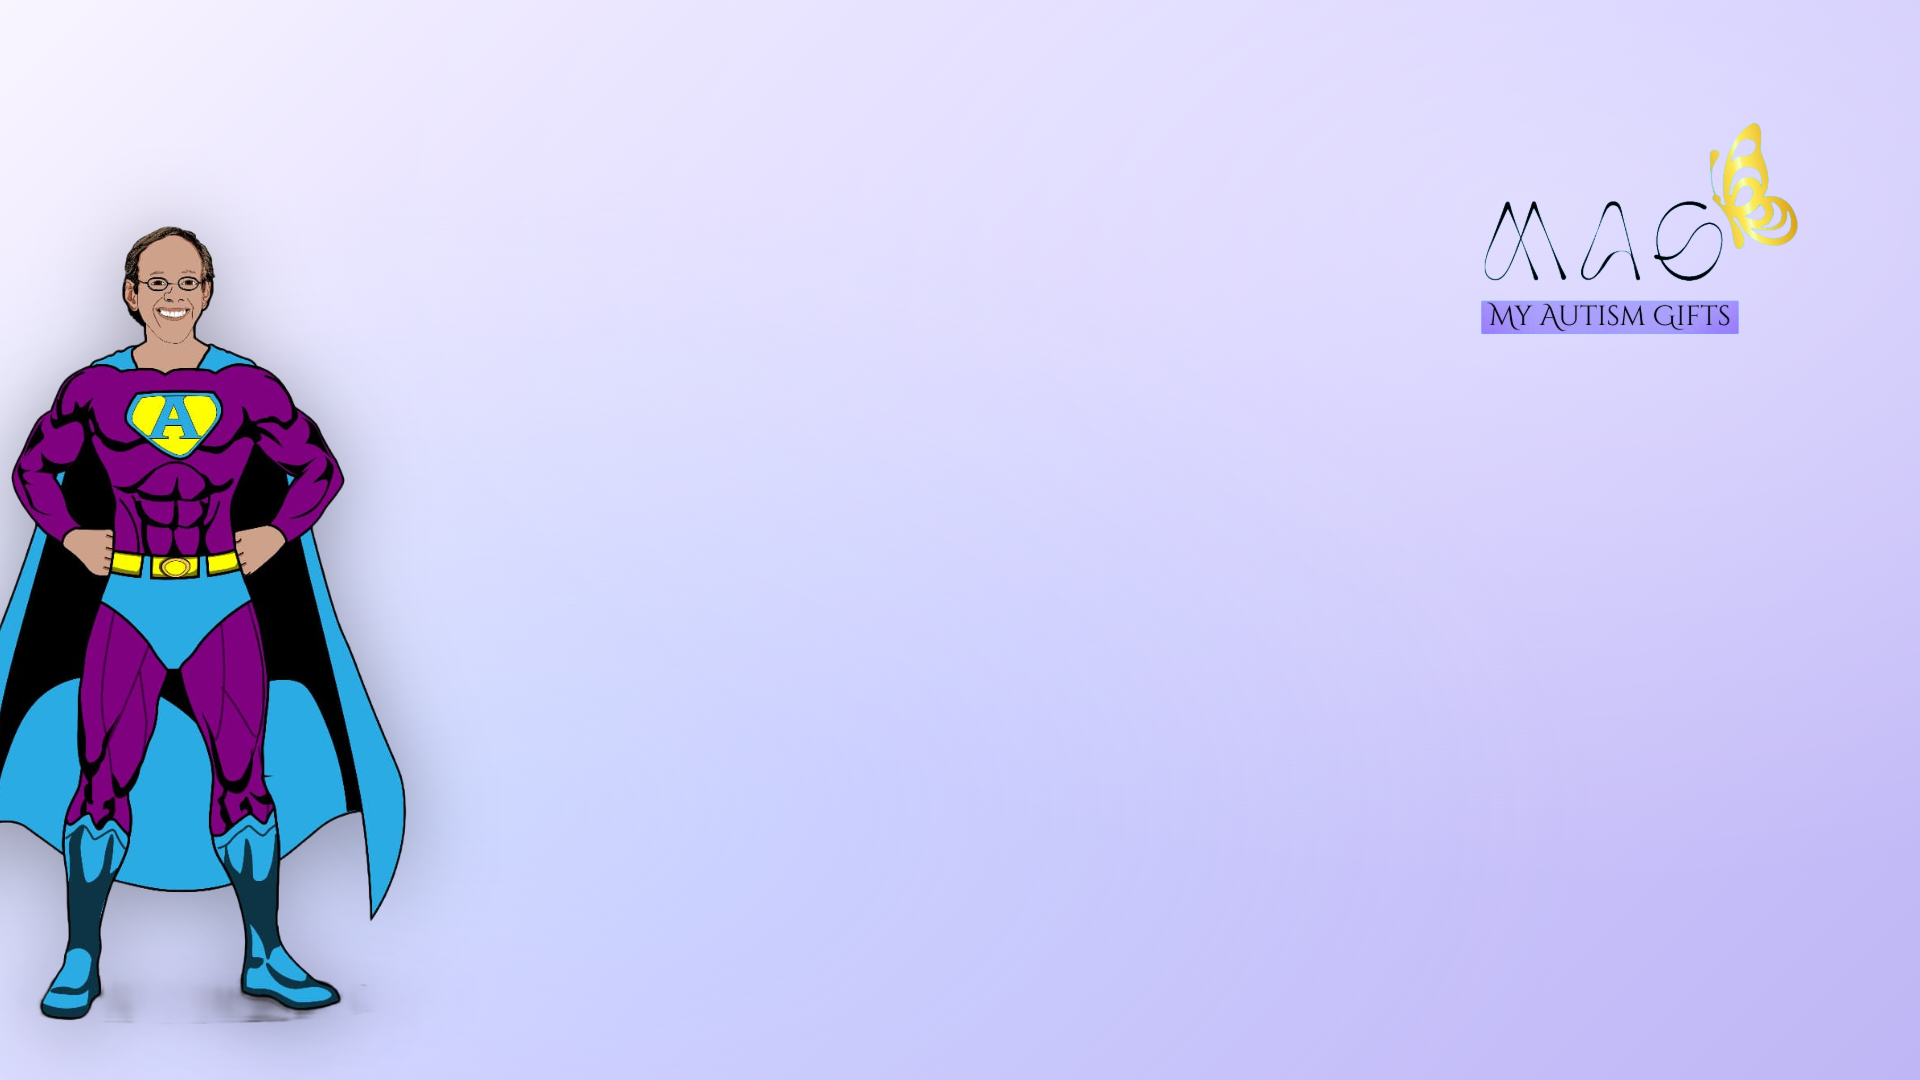
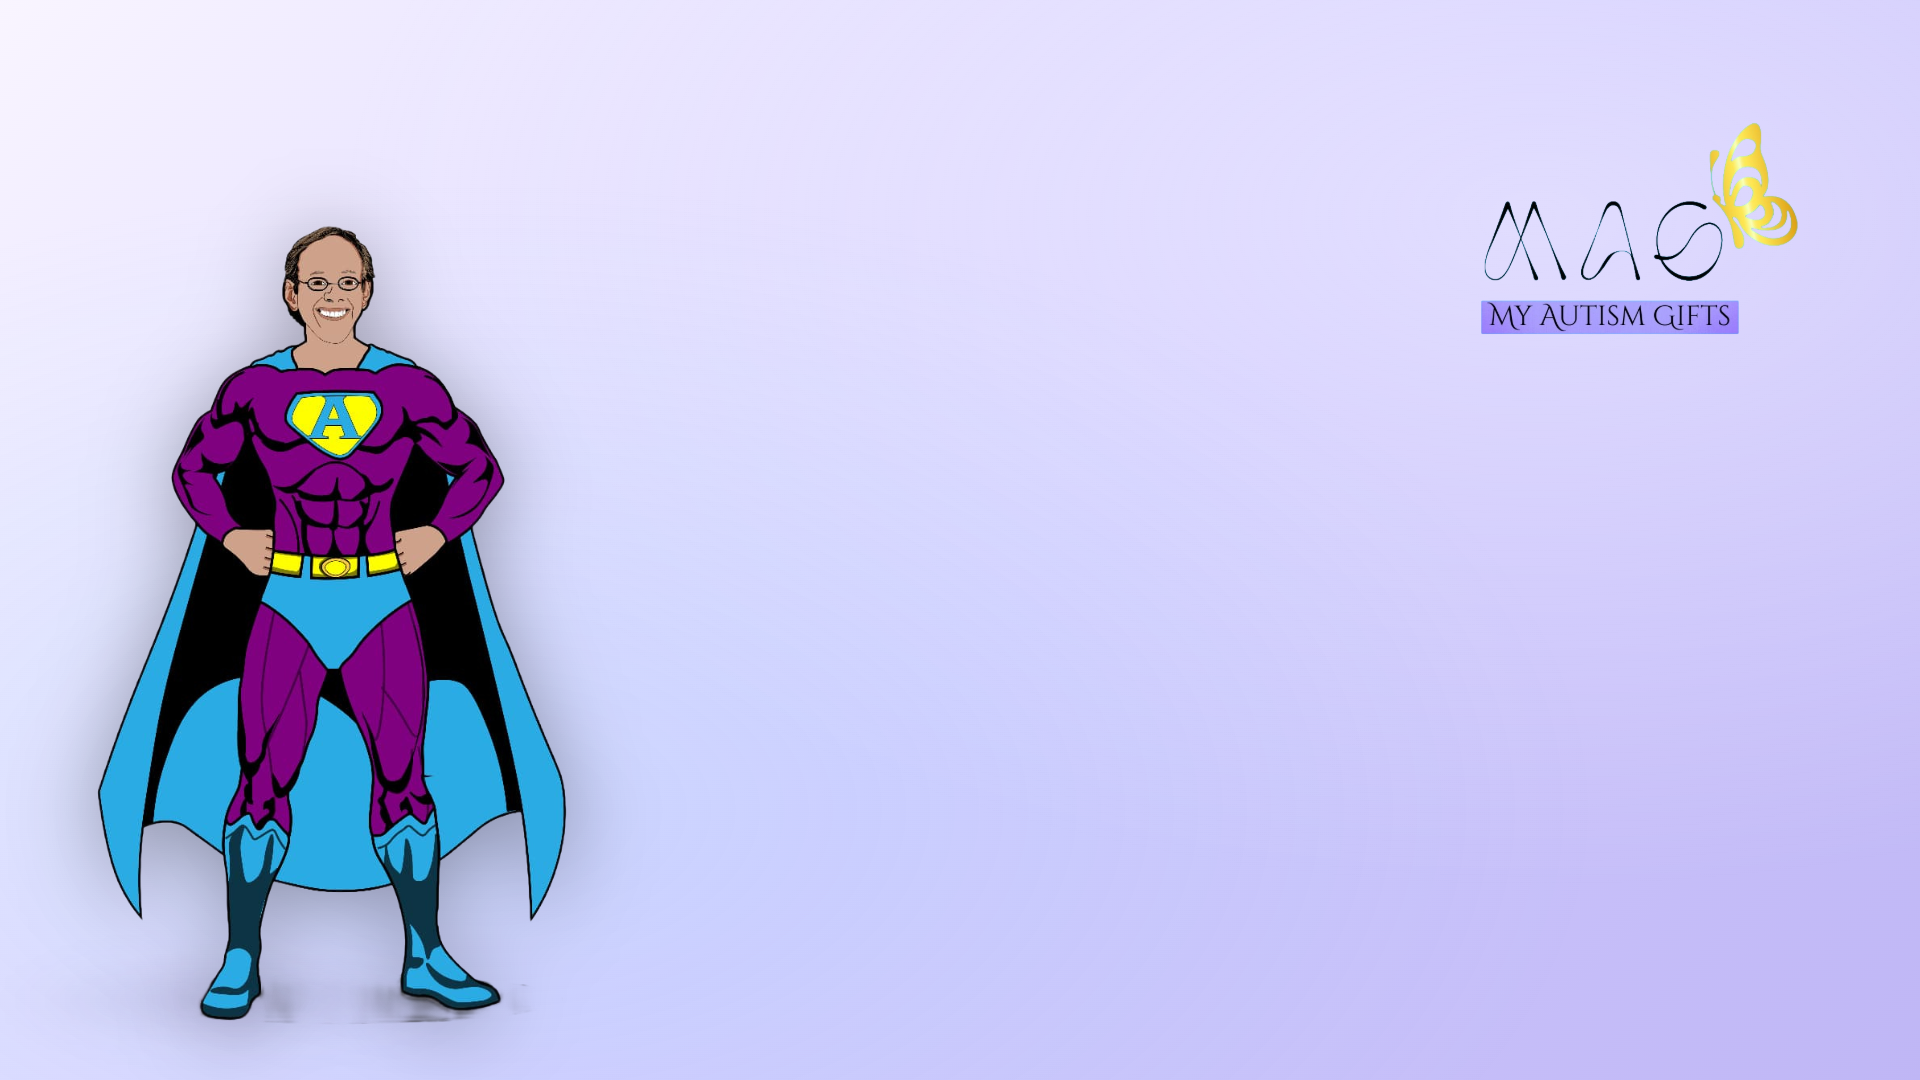
Nudge Autism Man right on BG 3 so full figure (cape included) is visible
Meeting 8 summary wording was "ensure the cape is not touching the side".
v5.0 had left: -120px (cape clipped off-screen); v5.1 uses left: 40px
so the entire figure sits inside the frame with breathing room.

Changed region(s): [[0.0, 0.2139, 0.3125, 0.9472]]

diff --git a/images/zoom-backgrounds/MAG Zoom BG's v5/bg3-autism-man-v5.html b/images/zoom-backgrounds/MAG Zoom BG's v5/bg3-autism-man-v5.html
@@ -28,13 +28,13 @@ body {
   pointer-events: none;
 }
 
-/* Autism Man — moved FURTHER LEFT per Sean's directive: cape just touches left edge.
-   v3 used left: 80px; v5 uses left: -120px so cape (the leftmost part of the PNG)
-   grazes x=0. height unchanged at 860px. */
+/* Autism Man — positioned so he is FULLY visible on the left side with breathing room.
+   v3 used left: 80px; v5.0 used left: -120px (cape clipped); v5.1 uses left: 40px so
+   the entire figure (cape included) sits inside the frame with a small left margin. */
 .hero {
   position: absolute;
   bottom: 40px;
-  left: -120px;
+  left: 40px;
   height: 860px;
   width: auto;
   filter: drop-shadow(0 10px 40px rgba(0,0,0,0.35));
